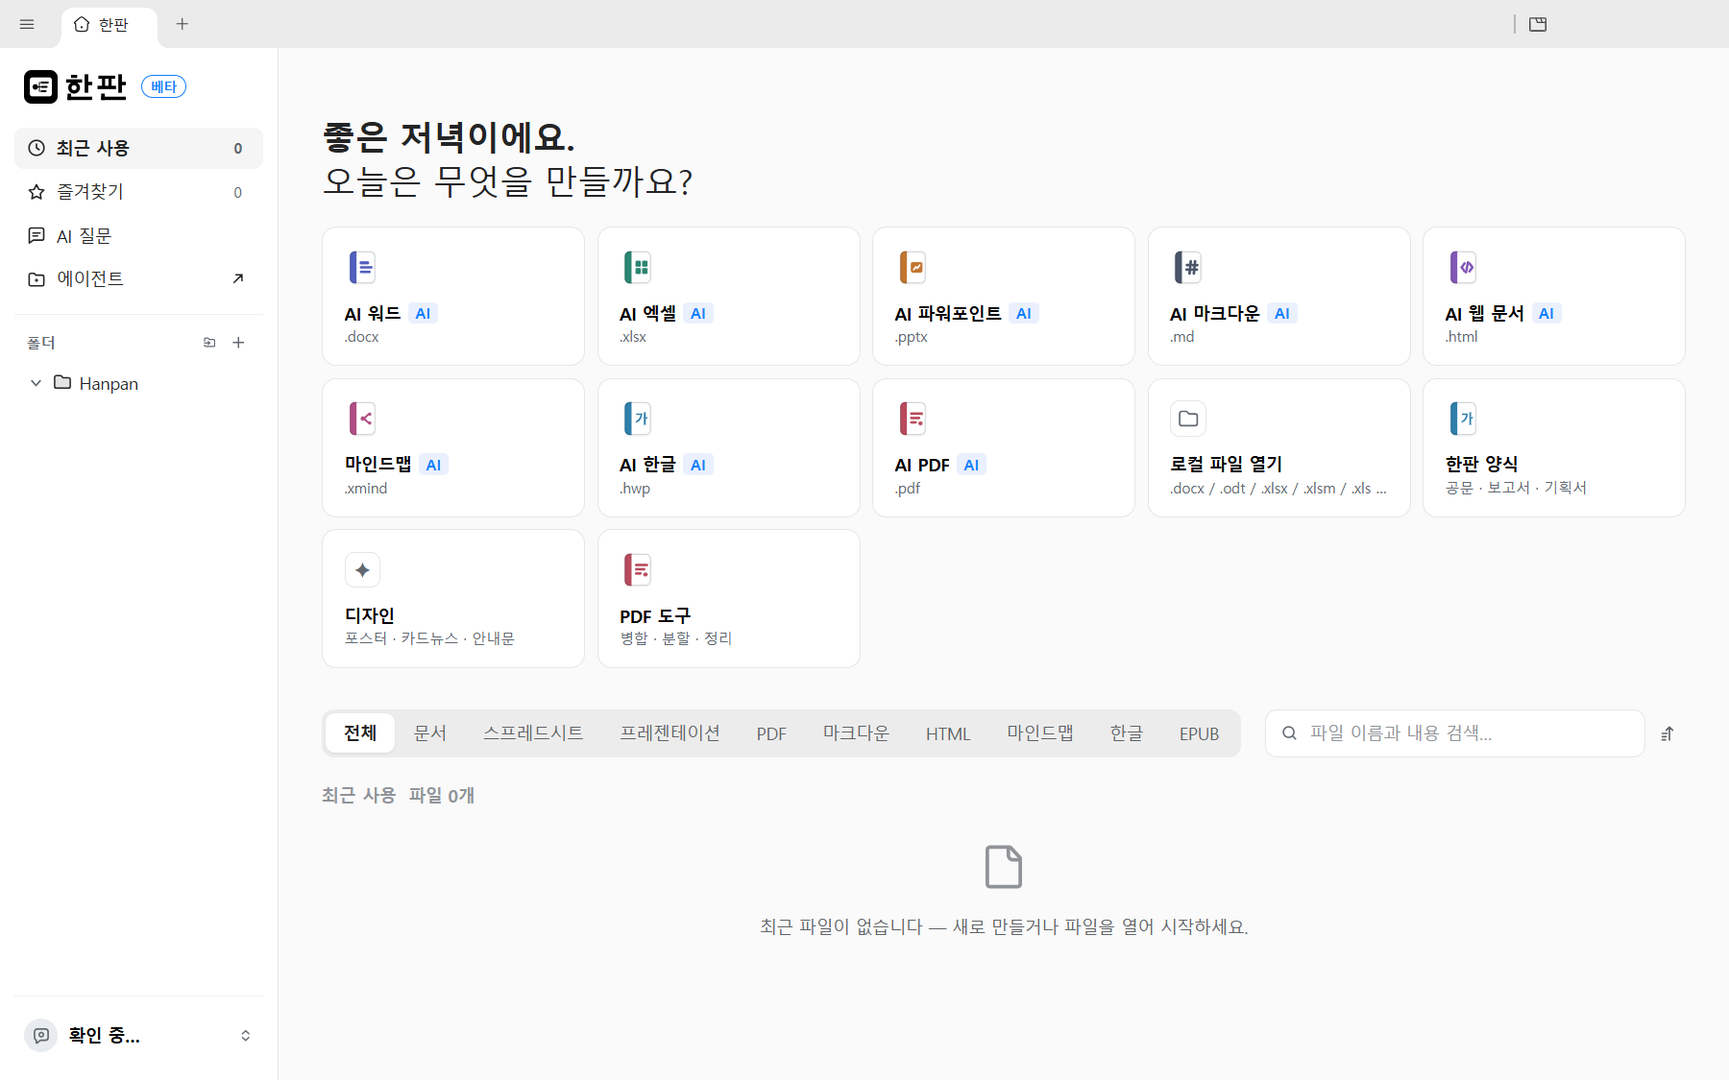
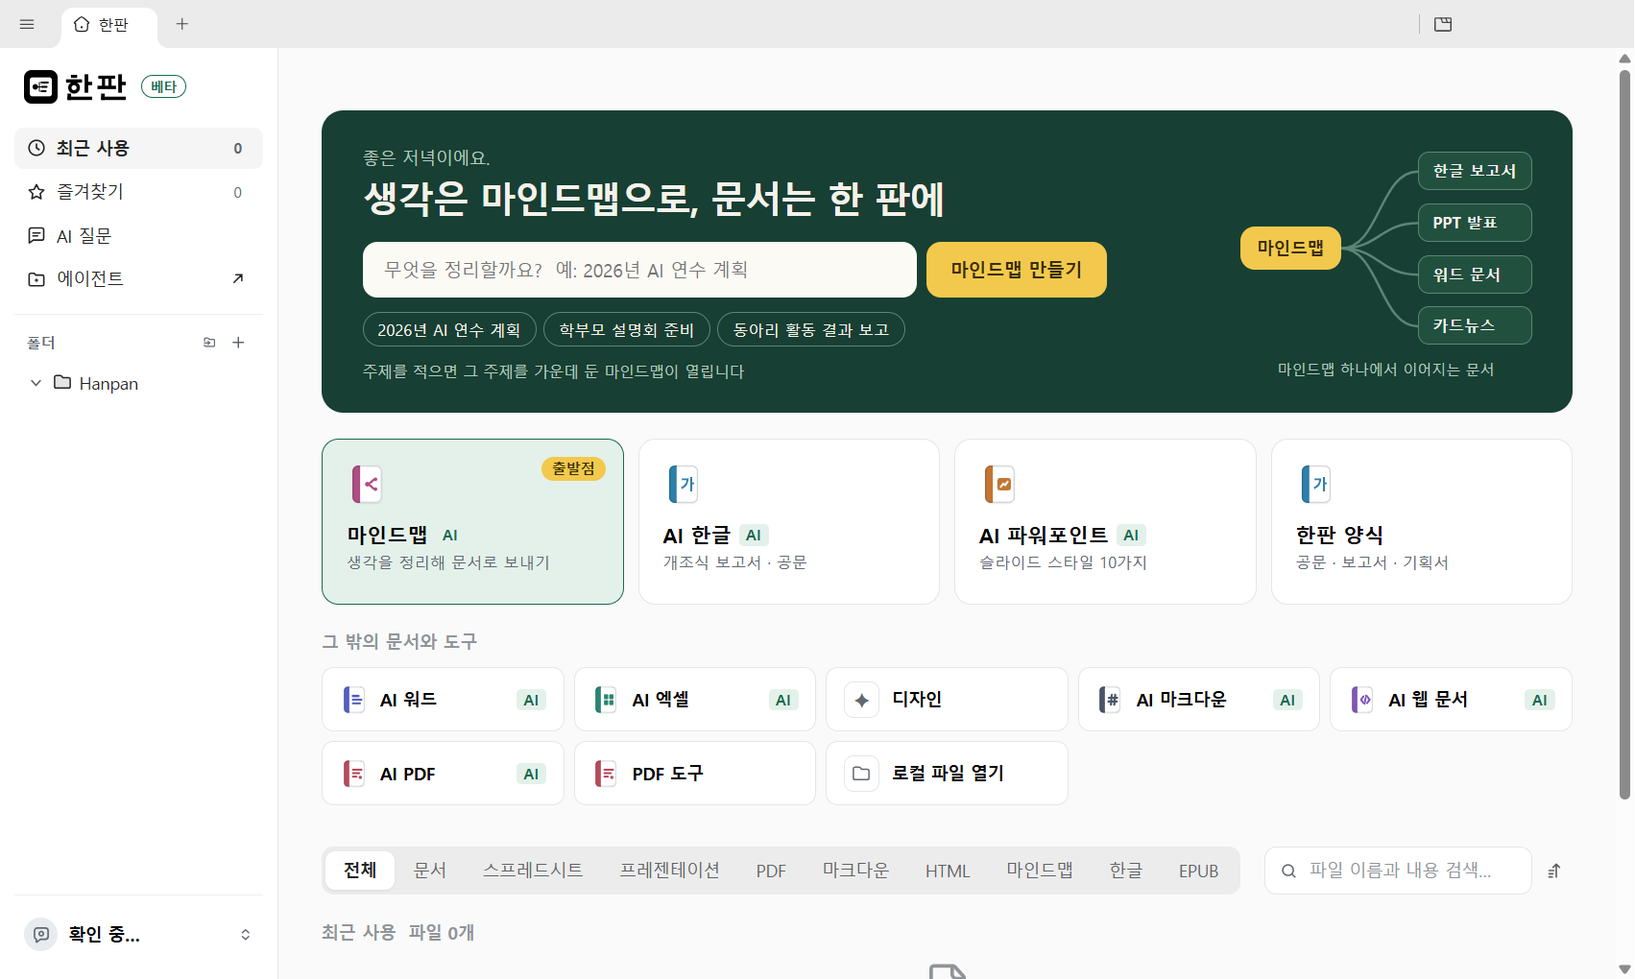
docs(hanpan): call the map a mind map (마인드맵) everywhere in Korean
Korean text that said 지도 for the mind map now says 마인드맵, with the
particles after it corrected: the mind map editor and its AI panel, the
send and sync dialogs, the help topic and the manual. The manual's Home
section and picture show the new Home.

diff --git a/apps/mindmap/src/renderer/i18n/app/ko.ts b/apps/mindmap/src/renderer/i18n/app/ko.ts
@@ -26,7 +26,7 @@ export const ko = {
   tbNote: '메모',
   notePlaceholder: '메모를 입력하세요…',
   notePanelNoTopic: '토픽을 고르면 그 메모가 여기에 열립니다.',
-  notePanelHint: '다른 곳을 누르면 지도에 반영됩니다.',
+  notePanelHint: '다른 곳을 누르면 마인드맵에 반영됩니다.',
   tbLabel: '라벨',
   tbLink: '링크',
   tbLayout: '배치',
@@ -49,7 +49,7 @@ export const ko = {
   layoutTree: '트리',
   layoutTimeline: '타임라인',
   layoutStandIn:
-    '이 지도의 원래 배치는 여기서 그릴 수 없어 다른 배치로 보입니다. 배치를 고르면 그때 파일에 적습니다.',
+    '이 마인드맵의 원래 배치는 여기서 그릴 수 없어 다른 배치로 보입니다. 배치를 고르면 그때 파일에 적습니다.',
   sheetTabs: '시트',
   sheetAdd: '시트 추가',
   sheetRename: '이름 바꾸기',
@@ -68,7 +68,7 @@ export const ko = {
   btnRemove: '없애기',
   noticePreserved:
     '이 파일에는 여기서 보이지 않는 요소가 {count}개 있습니다. 저장해도 지워지지 않습니다. 다만 직접 지운 토픽에 딸린 것은 함께 지워집니다.',
-  noticeTheme: '이 지도는 여기서 기본 모양으로 보입니다. 파일의 테마는 바뀌지 않습니다.',
+  noticeTheme: '이 마인드맵은 여기서 기본 모양으로 보입니다. 파일의 테마는 바뀌지 않습니다.',
   openLegacy: '예전 형식의 파일이라 열 수 없습니다',
   openEncrypted: '암호가 걸린 파일이라 열 수 없습니다',
   openUnreadable: '읽을 수 없는 파일입니다',
@@ -77,7 +77,7 @@ export const ko = {
   linkHint: '웹 주소(http, https)나 메일 주소(mailto)를 적습니다',
   linkWontOpen:
     '이 주소는 글자로만 보이고 눌러도 열리지 않습니다. 웹 주소(http, https)와 메일 주소만 열립니다.',
-  linkInternal: '이 꼴의 주소는 지도 파일 안을 가리키는 데 쓰여서 여기에 적을 수 없습니다.',
+  linkInternal: '이 꼴의 주소는 마인드맵 파일 안을 가리키는 데 쓰여서 여기에 적을 수 없습니다.',
   linkNotOpened: '이 링크는 열 수 없습니다',
   pickRelationship: '연결할 토픽을 누르세요. Esc를 누르면 그만둡니다.',
   selectTopicFirst: '토픽을 먼저 고르세요',
@@ -94,7 +94,7 @@ export const ko = {
   meClickTips: '연결할 토픽을 누르세요',
   meSummary: '요약',
   tbTheme: '테마',
-  themeTitle: '지도 테마',
+  themeTitle: '마인드맵 테마',
   themeSkeleton: '모양',
   themeBand: '색',
   themeGround: '바탕',
@@ -133,7 +133,7 @@ export const ko = {
   sendLookHancom: '보고서 글꼴 (HY헤드라인M·휴먼명조)',
   sendLookPlain: '기본 글꼴 (함초롬)',
   sendContent: '내용',
-  sendAsIs: '지도에 적은 말 그대로',
+  sendAsIs: '마인드맵에 적은 말 그대로',
   sendFleshOut: 'AI가 문장으로 살 붙이기',
   sendNotes: '메모도 넣기',
   sendDate: '날짜',
@@ -142,23 +142,23 @@ export const ko = {
   sendWorking: '문서를 만드는 중…',
   sendAiWorking: 'AI가 항목을 쓰는 중… ({done}/{total})',
   sendFailed: '보내지 못했습니다: {error}',
-  sendAiFallback: 'AI가 답하지 않아 지도에 적은 말 그대로 보냈습니다. ({error})',
-  sendDone: '새 탭에 열었습니다. 지도와 연결되어 있어 바뀐 곳을 서로 반영할 수 있습니다.',
+  sendAiFallback: 'AI가 답하지 않아 마인드맵에 적은 말 그대로 보냈습니다. ({error})',
+  sendDone: '새 탭에 열었습니다. 마인드맵과 연결되어 있어 바뀐 곳을 서로 반영할 수 있습니다.',
   sendEmpty: '보낼 가지가 없습니다. 중심 주제 아래에 가지를 하나 이상 만드세요.',
   sendSync: '연결된 문서와 맞추기',
   syncChecking: '연결된 문서를 확인하는 중…',
-  syncNone: '이 지도와 연결된 문서가 없습니다. 먼저 \'보내기\'로 문서를 만드세요.',
+  syncNone: '이 마인드맵과 연결된 문서가 없습니다. 먼저 \'보내기\'로 문서를 만드세요.',
   syncNoChanges: '바뀐 곳이 없습니다',
-  syncToDoc: '지도 → 문서',
-  syncToMap: '문서 → 지도',
+  syncToDoc: '마인드맵 → 문서',
+  syncToMap: '문서 → 마인드맵',
   syncConflicts: '양쪽에서 다르게 고친 곳',
-  syncChooseMap: '지도 쪽',
+  syncChooseMap: '마인드맵 쪽',
   syncChooseDoc: '문서 쪽',
   syncChooseLater: '나중에',
   syncApply: '반영하기',
   syncAppliedTab: '{n}곳을 반영했습니다. 문서 탭에서 확인하고 저장하세요.',
   syncAppliedFile: '{n}곳을 반영해 파일에 저장했습니다. 이전 파일은 .bak으로 남겼습니다.',
-  syncNotSupported: '워드·PPT 문서는 아직 지도로 다시 읽어 맞추지 않습니다. 지도에서 다시 보내 주세요.',
+  syncNotSupported: '워드·PPT 문서는 아직 마인드맵으로 다시 읽어 맞추지 않습니다. 마인드맵에서 다시 보내 주세요.',
   syncProblem: '문서를 읽지 못했습니다: {error}',
   syncAdd: '추가',
   syncRename: '이름 바꿈',

diff --git a/apps/mindmap/src/renderer/i18n/ai/ko.ts b/apps/mindmap/src/renderer/i18n/ai/ko.ts
@@ -4,18 +4,18 @@ export const ko = {
   aiOpenAssistant: 'AI 도우미 열기',
   aiCollapsePanel: '패널 접기',
   aiNewChat: '새 대화',
-  aiEmptyTitle: 'AI와 함께 지도 만들기',
+  aiEmptyTitle: 'AI와 함께 마인드맵 만들기',
   aiEmptyBody:
-    '어떤 주제든 새 지도를 만들어 달라고 하거나, 지금 지도를 넓히고 정리하고 설명해 달라고 하세요. 파일을 첨부하면 그 내용으로 지도를 만듭니다.',
-  aiStarterNewMap: '…에 대한 지도',
+    '어떤 주제든 새 마인드맵을 만들어 달라고 하거나, 지금 마인드맵을 넓히고 정리하고 설명해 달라고 하세요. 파일을 첨부하면 그 내용으로 마인드맵을 만듭니다.',
+  aiStarterNewMap: '…에 대한 마인드맵',
   aiStarterNewMapPrompt: '다음 주제로 마인드맵을 만들어 줘: ',
   aiStarterExpand: '고른 토픽 넓히기',
   aiStarterExpandPrompt: '고른 토픽에 하위 토픽을 더해 줘.',
-  aiStarterTidy: '지도 정리하기',
+  aiStarterTidy: '마인드맵 정리하기',
   aiStarterTidyPrompt: '비슷한 토픽끼리 묶고 긴 제목을 줄여 줘. 아무것도 지우지는 마.',
-  aiStarterSummarize: '지도 요약하기',
-  aiStarterSummarizePrompt: '이 지도를 몇 문장으로 요약해 줘.',
-  aiComposerPlaceholder: '지도를 만들거나 고쳐 달라고 AI에게 말해 보세요…',
+  aiStarterSummarize: '마인드맵 요약하기',
+  aiStarterSummarizePrompt: '이 마인드맵을 몇 문장으로 요약해 줘.',
+  aiComposerPlaceholder: '마인드맵을 만들거나 고쳐 달라고 AI에게 말해 보세요…',
   aiHintIdle: 'Enter 전송, Shift+Enter 줄바꿈',
   aiHintBusy: '답변 중…',
   aiSend: '전송',
@@ -39,19 +39,19 @@ export const ko = {
   aiTurnsTitle: 'AI 차례 되돌리기',
   aiRollback: '되돌리기',
   aiRollbackIncomplete:
-    '그 차례의 일부는 되돌리지 못했습니다. 지도의 되돌리기 기록이 그만큼 남아 있지 않습니다.',
+    '그 차례의 일부는 되돌리지 못했습니다. 마인드맵의 되돌리기 기록이 그만큼 남아 있지 않습니다.',
   aiUnknownError: 'AI 요청이 실패했습니다. 다시 시도하세요',
   aiTimeoutError: 'AI 응답 시간 초과',
   aiCreditsExhausted: '크레딧이 부족합니다. 사용 중인 AI 제공업체에서 충전하세요',
   aiNetworkError:
     '네트워크에 문제가 있어 AI 서비스에 연결할 수 없습니다. 연결을 확인한 후 다시 시도해 주세요',
   aiOverloadedError: 'AI 서비스가 혼잡합니다. 잠시 후 다시 시도해 주세요',
-  aiToolReadMap: '지도 읽기',
+  aiToolReadMap: '마인드맵 읽기',
   aiToolReadTopic: '토픽 "{title}" 읽기',
-  aiToolEditMap: '지도 고침 · 편집 {total}개 중 {done}개',
-  aiToolEditMapFailed: '지도를 고치지 못함',
-  aiToolWriteMap: '지도 쓰기 · 시트 {count}개',
-  aiToolWriteMapFailed: '지도를 쓰지 못함',
+  aiToolEditMap: '마인드맵 고침 · 편집 {total}개 중 {done}개',
+  aiToolEditMapFailed: '마인드맵을 고치지 못함',
+  aiToolWriteMap: '마인드맵 쓰기 · 시트 {count}개',
+  aiToolWriteMapFailed: '마인드맵을 쓰지 못함',
   aiToolWebSearch: '웹 검색',
   aiToolWebSearchDone: '"{query}" 검색 · 결과 {count}개',
   aiToolReadUrl: '웹 문서 읽기',

diff --git a/tools/hanpan-help-topic.py b/tools/hanpan-help-topic.py
@@ -11,14 +11,14 @@ OUT = pathlib.Path(__file__).resolve().parent.parent / 'apps/shell/src/renderer/
 # (title, intro, [ (heading, kind, [items]) ... ])  kind: 'ol' | 'ul'
 T = {}
 
-T['ko'] = ('한판 시작하기', '한판은 마인드맵으로 정리한 생각을 한글 보고서·PPT·워드로 보내 같은 창에서 이어 쓰고, 지도와 문서를 서로 맞춥니다. AI는 이 PC에 깔린 AI를 먼저 씁니다.', [
+T['ko'] = ('한판 시작하기', '한판은 마인드맵으로 정리한 생각을 한글 보고서·PPT·워드로 보내 같은 창에서 이어 쓰고, 마인드맵과 문서를 서로 맞춥니다. AI는 이 PC에 깔린 AI를 먼저 씁니다.', [
  ('마인드맵을 문서로 보내기', 'ol', [
   '마인드맵 도구 줄의 **보내기** 단추를 누르고 한글 보고서, PPT, 워드 보고서 가운데 하나를 고릅니다. PPT는 **슬라이드 스타일**에서 스티브 잡스·맥킨지·토스 등 10가지 디자인 가운데 하나를 고를 수 있습니다.',
-  '양식(개조식 보고서, 장 보고서, 공문 번호)과 날짜·부서를 정하고, 내용은 **지도에 적은 말 그대로** 또는 **AI가 문장으로 살 붙이기**를 고릅니다.',
+  '양식(개조식 보고서, 장 보고서, 공문 번호)과 날짜·부서를 정하고, 내용은 **마인드맵에 적은 말 그대로** 또는 **AI가 문장으로 살 붙이기**를 고릅니다.',
   '**보내기**를 누르면 같은 창의 새 탭에 문서가 열립니다. 처음 저장할 때 저장할 곳을 묻습니다.']),
- ('지도와 문서 맞추기', 'ul', [
-  '**보내기 › 연결된 문서와 맞추기**를 누르면 지도와 한글 문서에서 바뀐 곳이 나옵니다.',
-  '지도에서 고친 것은 문서로, 문서에서 고친 것은 지도로 갑니다. 양쪽에서 다르게 고친 곳은 지도 쪽, 문서 쪽, 나중에 가운데 고릅니다.',
+ ('마인드맵과 문서 맞추기', 'ul', [
+  '**보내기 › 연결된 문서와 맞추기**를 누르면 마인드맵과 한글 문서에서 바뀐 곳이 나옵니다.',
+  '마인드맵에서 고친 것은 문서로, 문서에서 고친 것은 마인드맵으로 갑니다. 양쪽에서 다르게 고친 곳은 마인드맵 쪽, 문서 쪽, 나중에 가운데 고릅니다.',
   '문서에서 쓴 본문 문장은 그대로 지켜집니다. 워드·PPT 문서는 지금은 보내기만 됩니다.']),
  ('한판 양식', 'ul', [
   '홈 화면의 **한판 양식** 카드에서 공문, 보고서, 제안서, 회의록, 기획서 양식 19가지를 한글이나 워드로 엽니다.']),

diff --git a/docs/manual/한판-사용설명서.md b/docs/manual/한판-사용설명서.md
@@ -2,7 +2,7 @@
 
 > 하나의 판에서 생각하고, 쓰고, 발표하고, 꾸민다.
 
-한판은 마인드맵으로 정리한 생각을 **한글(HWP) 보고서·PPT·워드**로 보내 같은 창에서 이어 쓰고, 지도와 문서를 서로 맞추는 데스크톱 오피스입니다. 공공기관·학교에서 쓰는 공문과 보고서 양식이 들어 있고, AI는 **내 PC에 깔린 AI**를 먼저 씁니다.
+한판은 마인드맵으로 정리한 생각을 **한글(HWP) 보고서·PPT·워드**로 보내 같은 창에서 이어 쓰고, 마인드맵과 문서를 서로 맞추는 데스크톱 오피스입니다. 공공기관·학교에서 쓰는 공문과 보고서 양식이 들어 있고, AI는 **내 PC에 깔린 AI**를 먼저 씁니다.
 
 앱 안에서도 같은 안내를 볼 수 있습니다. 메뉴의 **도움말 › 사용 설명서**(F1)를 누르고 맨 위의 **한판 시작하기**를 고르세요.
 
@@ -10,7 +10,7 @@
 
 1. [홈 화면](#1-홈-화면)
 2. [마인드맵을 한글·PPT·워드로 보내기](#2-마인드맵을-한글pptx워드로-보내기)
-3. [지도와 문서 맞추기](#3-지도와-문서-맞추기)
+3. [마인드맵과 문서 맞추기](#3-마인드맵과-문서-맞추기)
 4. [한판 도구 (한글 탭)](#4-한판-도구-한글-탭)
 5. [한판 양식](#5-한판-양식)
 6. [디자인 (포스터·카드뉴스·안내문)](#6-디자인-포스터카드뉴스안내문)
@@ -24,14 +24,20 @@
 
 ![홈 화면](images/01-home.png)
 
-앱을 열면 홈 화면이 나옵니다. 위쪽 카드로 새 문서를 만들고, 아래 목록에서 최근에 쓴 파일을 엽니다.
+앱을 열면 홈 화면이 나옵니다. 한판의 일은 마인드맵에서 시작하므로, 홈도 마인드맵을 중심으로 놓여 있습니다.
+
+- **시작판(초록 판)**: 정리할 주제를 적고 **마인드맵 만들기**를 누르면, 그 주제를 가운데 둔 새 마인드맵이 열립니다. 아래의 예시 주제를 눌러도 됩니다. 오른쪽 작은 그림은 그 마인드맵이 한글 보고서·PPT·워드·카드뉴스로 이어진다는 뜻입니다.
+- **큰 카드 네 장**: 일이 흘러가는 순서대로 **마인드맵**(출발점) → **AI 한글** → **AI 파워포인트** → **한판 양식**입니다.
+- **그 밖의 문서와 도구**: AI 워드, AI 엑셀, 디자인, AI 마크다운, AI 웹 문서, AI PDF, PDF 도구, 로컬 파일 열기.
+- 아래 목록에서 최근에 쓴 파일을 엽니다.
 
 | 카드 | 하는 일 |
 | --- | --- |
-| AI 워드 · AI 엑셀 · AI 파워포인트 | 새 워드·엑셀·PPT 문서 |
-| 마인드맵 | 새 마인드맵(.xmind) |
-| AI 한글 | 새 한글 문서(.hwp/.hwpx) |
+| **마인드맵** | 새 마인드맵(.xmind). 생각을 정리해 문서로 보내는 출발점 ([2장](#2-마인드맵을-한글pptx워드로-보내기)) |
+| AI 한글 | 새 한글 문서(.hwp/.hwpx). 개조식 보고서·공문 |
+| AI 파워포인트 | 새 PPT 문서. 슬라이드 스타일 10가지 |
 | **한판 양식** | 공문·보고서·기획서 양식 19가지 ([5장](#5-한판-양식)) |
+| AI 워드 · AI 엑셀 | 새 워드·엑셀 문서 |
 | **디자인** | 포스터·카드뉴스·안내문 ([6장](#6-디자인-포스터카드뉴스안내문)) |
 | PDF 도구 | PDF 병합·분할·정리 |
 
@@ -51,7 +57,7 @@
 - **PPT로 보내기**: 슬라이드(.pptx)
 - **워드 보고서로 보내기**: 보고서(.docx)
 - **카드뉴스로 보내기 (디자인)**: 디자인 보드의 카드뉴스 ([6장](#6-디자인-포스터카드뉴스안내문))
-- **연결된 문서와 맞추기**: 이미 보낸 문서와 지도 맞추기 ([3장](#3-지도와-문서-맞추기))
+- **연결된 문서와 맞추기**: 이미 보낸 문서와 마인드맵 맞추기 ([3장](#3-마인드맵과-문서-맞추기))
 
 ### 2-2. 보내기 창
 
@@ -63,16 +69,16 @@
 | 글꼴 | **보고서 글꼴**(HY헤드라인M·휴먼명조·한양중고딕) 또는 **기본 글꼴**(함초롬) |
 | 날짜 | 오늘 날짜가 공문 표기(2026. 10. 30.)로 들어갑니다 |
 | 부서·작성자 | 제목 아래 날짜 옆에 들어갑니다 |
-| 내용 | **지도에 적은 말 그대로**, 또는 **AI가 문장으로 살 붙이기**(각 항목을 "~함", "~임"으로 끝나는 개조식 문장으로 늘려 씀) |
+| 내용 | **마인드맵에 적은 말 그대로**, 또는 **AI가 문장으로 살 붙이기**(각 항목을 "~함", "~임"으로 끝나는 개조식 문장으로 늘려 씀) |
 | 메모도 넣기 | 토픽 메모를 항목 아래 설명으로 넣습니다. "※"로 시작하는 메모는 참고 문구가 됩니다 |
 
 **보내기**를 누르면 같은 창의 새 탭에 문서가 열립니다. 아직 저장되지 않은 새 문서이므로, 처음 저장할 때 저장할 곳을 묻습니다.
 
-### 2-3. 지도가 문서가 되는 방식
+### 2-3. 마인드맵이 문서가 되는 방식
 
 ![한글 보고서](images/04-hwp-report.png)
 
-| 지도 | 한글·워드 보고서 | PPT |
+| 마인드맵 | 한글·워드 보고서 | PPT |
 | --- | --- | --- |
 | 중심 주제 | 보고서 제목 + 날짜·부서 줄 | 표지 슬라이드 |
 | 큰 가지 | □ 항목 (장 보고서면 Ⅰ. 장 제목) | 슬라이드 한 장의 제목 |
@@ -107,25 +113,25 @@
 
 글꼴은 한판에 들어 있는 프리텐다드·본명조·고운바탕을 씁니다. 만든 슬라이드는 PPT 탭에서 글자·색·도형을 그대로 고칠 수 있습니다. 파워포인트로 열 때 이 글꼴이 PC에 없으면 비슷한 글꼴로 바뀌어 보이니, 설치 폴더의 `resources	emplate-fonts`에서 글꼴 파일을 두 번 눌러 설치하면 같은 모양으로 보입니다.
 
-## 3. 지도와 문서 맞추기
+## 3. 마인드맵과 문서 맞추기
 
-보낸 뒤에도 지도와 한글 문서는 연결되어 있습니다. 어느 쪽을 고쳐도 다른 쪽에 반영할 수 있습니다.
+보낸 뒤에도 마인드맵과 한글 문서는 연결되어 있습니다. 어느 쪽을 고쳐도 다른 쪽에 반영할 수 있습니다.
 
 ![맞추기 창](images/05-sync.png)
 
 1. 마인드맵에서 **보내기 › 연결된 문서와 맞추기**를 누릅니다.
 2. 연결된 문서마다 바뀐 곳이 나옵니다.
-   - **지도 → 문서**: 지도에서 추가·이름 바꿈·옮김·삭제한 것
-   - **문서 → 지도**: 한글 문서에서 □ ○ ― 같은 항목을 새로 쓰거나 고친 것
-   - **양쪽에서 다르게 고친 곳**: 지도 쪽 / 문서 쪽 / 나중에 가운데 고릅니다
+   - **마인드맵 → 문서**: 마인드맵에서 추가·이름 바꿈·옮김·삭제한 것
+   - **문서 → 마인드맵**: 한글 문서에서 □ ○ ― 같은 항목을 새로 쓰거나 고친 것
+   - **양쪽에서 다르게 고친 곳**: 마인드맵 쪽 / 문서 쪽 / 나중에 가운데 고릅니다
 3. **반영하기**를 누릅니다.
-   - 지도 쪽 변경은 되돌리기(Ctrl+Z) 한 번으로 취소할 수 있습니다.
+   - 마인드맵 쪽 변경은 되돌리기(Ctrl+Z) 한 번으로 취소할 수 있습니다.
    - 문서가 탭에 열려 있으면 탭에 바로 반영되고 "저장 안 됨"으로 표시됩니다. 저장하지 않으면 원래대로 남습니다.
    - 문서가 닫혀 있으면 파일에 저장하고, 이전 파일은 `.bak`으로 남깁니다.
 
-**지켜지는 것**: 문서에서 직접 쓴 본문 문장은 지도 때문에 덮어써지지 않습니다. 맞추기는 항목(뼈대)만 주고받습니다.
+**지켜지는 것**: 문서에서 직접 쓴 본문 문장은 마인드맵 때문에 덮어써지지 않습니다. 맞추기는 항목(뼈대)만 주고받습니다.
 
-**연결이 유지되는 원리**: 보낼 때 문서의 각 항목에 지도 토픽을 가리키는 보이지 않는 책갈피를 넣습니다. 한글에서 .hwp나 .hwpx로 저장해도 남습니다. 연결 기록은 PC의 앱 데이터 폴더(`hanpan-links.json`)에만 있고 문서 파일에는 책갈피 외에 아무것도 남지 않습니다.
+**연결이 유지되는 원리**: 보낼 때 문서의 각 항목에 마인드맵 토픽을 가리키는 보이지 않는 책갈피를 넣습니다. 한글에서 .hwp나 .hwpx로 저장해도 남습니다. 연결 기록은 PC의 앱 데이터 폴더(`hanpan-links.json`)에만 있고 문서 파일에는 책갈피 외에 아무것도 남지 않습니다.
 
 ## 4. 한판 도구 (한글 탭)
 
@@ -203,14 +209,14 @@ AI가 쓰이는 곳: 보내기 창의 **AI가 문장으로 살 붙이기**, 각 
 **보낸 한글 문서를 한컴 한글에서 열 수 있나요?**
 네. .hwpx로 만들어지고, 한판의 한글 탭에서 .hwp로 저장할 수도 있습니다. HY헤드라인M·휴먼명조 같은 한컴 글꼴이 없는 PC에서는 한판 화면에 대체 글꼴로 보이지만, 파일에는 글꼴 이름이 그대로 들어 있어 한컴 한글에서는 원래 모양으로 보입니다.
 
-**문서에서 □ 항목을 새로 썼는데 지도에 안 들어와요.**
+**문서에서 □ 항목을 새로 썼는데 마인드맵에 안 들어와요.**
 맞추기는 항목 기호(□ ○ ― ·, 공문이면 1. 가. 1))로 시작하는 줄을 항목으로 읽습니다. 기호를 붙여 쓰고 **연결된 문서와 맞추기**를 누르세요.
 
-**지도를 다른 이름으로 저장했더니 연결이 끊긴 것 같아요.**
-한판에서 저장하면 연결이 새 위치를 따라갑니다. 탐색기에서 파일을 옮기거나 이름을 바꾸면 연결을 찾지 못할 수 있습니다. 그때는 지도에서 다시 보내기를 하세요.
+**마인드맵을 다른 이름으로 저장했더니 연결이 끊긴 것 같아요.**
+한판에서 저장하면 연결이 새 위치를 따라갑니다. 탐색기에서 파일을 옮기거나 이름을 바꾸면 연결을 찾지 못할 수 있습니다. 그때는 마인드맵에서 다시 보내기를 하세요.
 
 **AI가 답하지 않아요.**
-보내기 창은 AI가 답하지 않으면 지도에 적은 말 그대로 보내고 이유를 알려 줍니다. Ollama 등이 실행 중인지, **설정 › AI**에서 고른 모델이 있는지 확인하세요.
+보내기 창은 AI가 답하지 않으면 마인드맵에 적은 말 그대로 보내고 이유를 알려 줍니다. Ollama 등이 실행 중인지, **설정 › AI**에서 고른 모델이 있는지 확인하세요.
 
 ## 9. 알려진 한계
 
